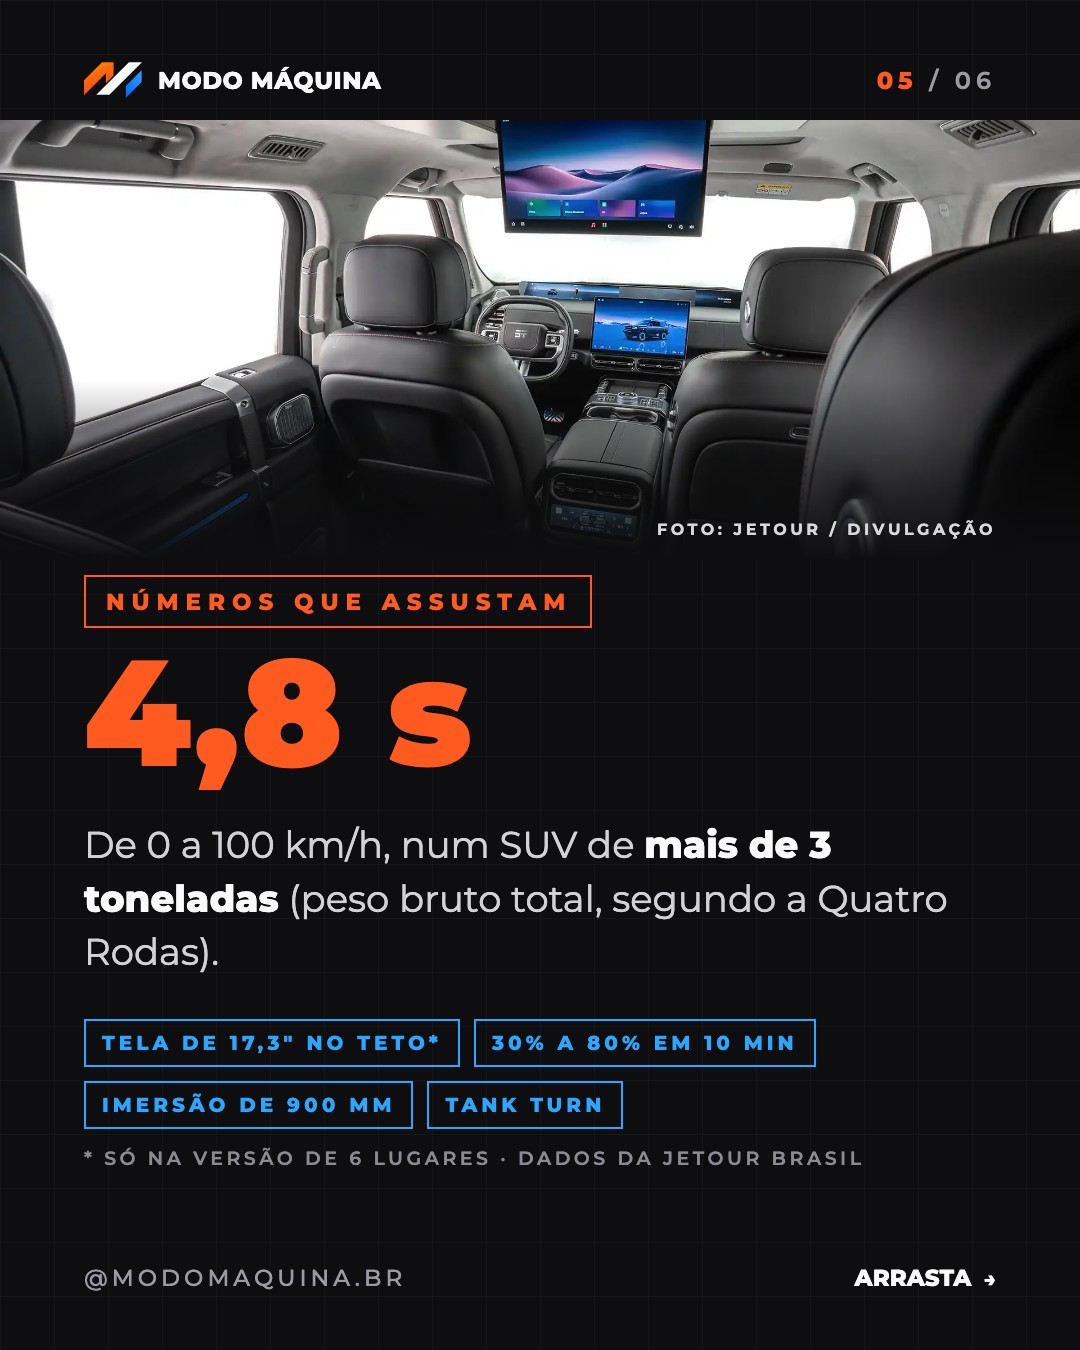
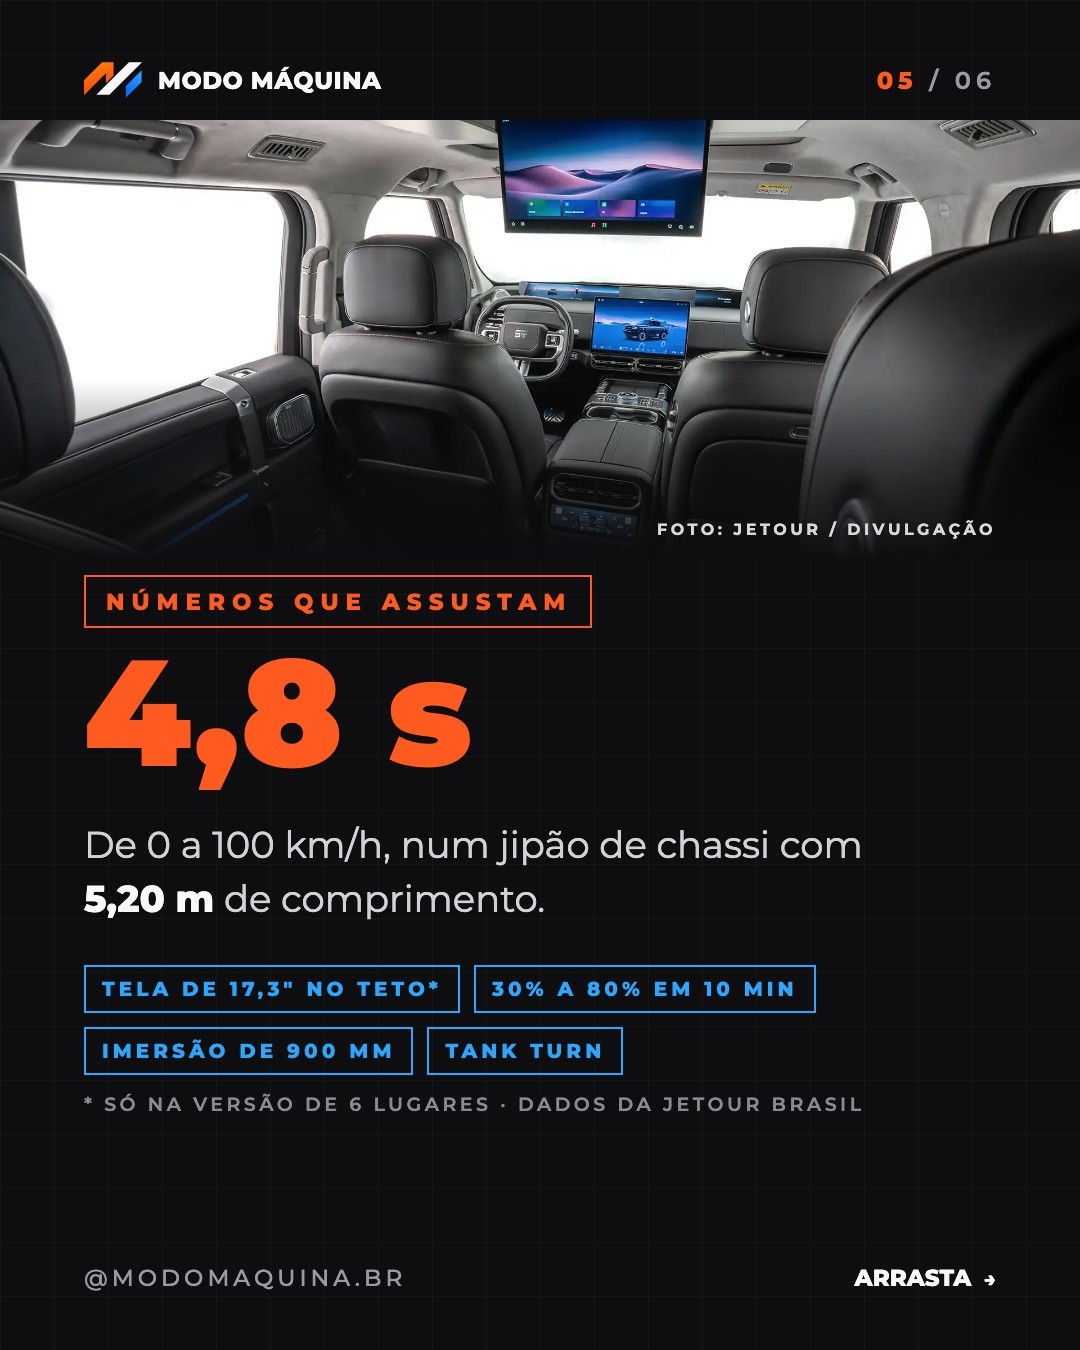
Jetour G700: tira o peso (Motor1 e Quatro Rodas divergem: peso em ordem de marcha x peso bruto total); slide 5 usa os 5,20 m da ficha

Changed region(s): [[0.0611, 0.5911, 0.8861, 0.8711]]

diff --git a/lib/content.js b/lib/content.js
@@ -36,7 +36,7 @@ export const POSTS = [
       { type: 'h2', text: 'Os 905 cv, explicados' },
       { type: 'p', text: 'O G700 é híbrido plug-in, com três motores: um 2.0 turbo a gasolina e dois elétricos, um em cada eixo. Segundo a Motor1, a AutoPapo e a Quatro Rodas, o motor a gasolina tem 211 cv, o elétrico da frente 286 cv e o de trás 408 cv. Somando tudo, dá 905 cv e 1.135 Nm (115,7 kgfm) de torque.' },
       { type: 'callout', big: '905 cv', text: 'É a "simples soma das potências individuais", nas palavras da própria Jetour, que avisa no site: a potência não está disponível toda ao mesmo tempo. A marca não divulga a potência combinada real.' },
-      { type: 'p', text: 'Mesmo assim, o número de aceleração é de respeito: de 0 a 100 km/h em 4,8 segundos, segundo a Jetour. Pela Motor1, o G700 pesa 3.150 kg na versão de cinco lugares e 3.180 kg na de seis.' },
+      { type: 'p', text: 'Mesmo assim, o número de aceleração é de respeito: de 0 a 100 km/h em 4,8 segundos, segundo a Jetour.' },
       { type: 'h2', text: 'Quanto ele anda no elétrico' },
       { type: 'p', text: 'A bateria tem 34,13 kWh. No modo só elétrico, a homologação do Inmetro dá 73 km de alcance, segundo a Motor1 e a AutoPapo. Os 1.300 km que a Jetour anuncia são a autonomia total, somando a bateria cheia com o tanque de gasolina de 100 litros. No modo híbrido, o Inmetro mediu 9,3 km/l na cidade e 8,7 km/l na estrada, segundo as três publicações.' },
       { type: 'p', text: 'Na recarga rápida, em carregador de corrente contínua de até 170 kW, a bateria vai de 30% a 80% em 10 minutos, segundo a Jetour. Em casa, num carregador de corrente alternada, o máximo é 11 kW, segundo a Motor1.' },
